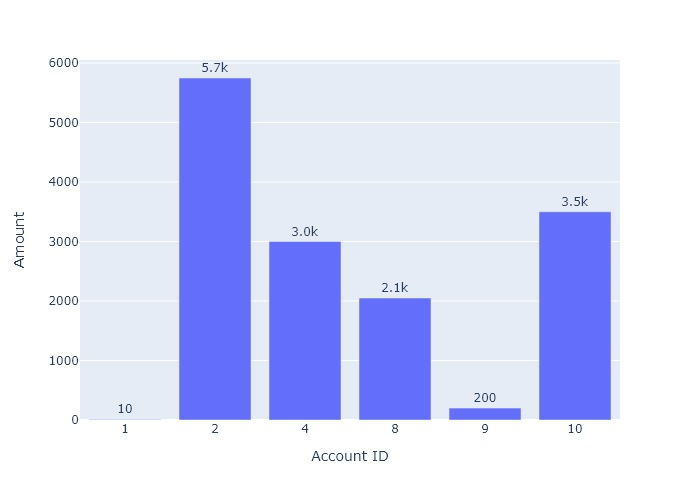
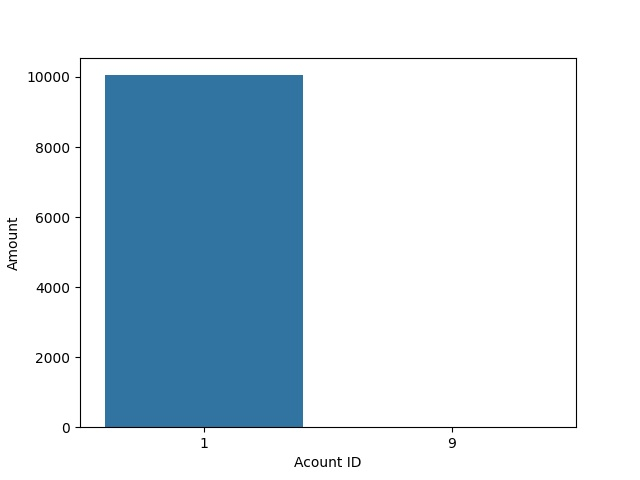
clearing report generating bugs

diff --git a/static/css/trans-rep.css b/static/css/trans-rep.css
@@ -1,17 +1,6 @@
 
-img{
-    width: 500px;
-    height: 300px;
-    object-fit: cover;
-    max:10px;
-display:block;
-box-shadow: 0 0 10px white;
-transition:  1s ease-in-out;
-text-align: left;
-   
-}
 p{
-    text-align: right;
+    text-align: center;
 color: white;
 font-weight: bold;
 font-size: 35px;
@@ -27,14 +16,14 @@ button{
         box-sizing: border-box;
         border: blue;
         opacity:95%;
-        
+
         border-radius: 2px;
         font-family: 'Times New Roman', Times, serif;
         font-size: 25px;
         color:rgb(22, 19, 19);
         padding: 10px;
         box-shadow: 0 0 10px white;
-        
+
 
 }
 img:hover{

diff --git a/templates/FastWithdraw.html b/templates/FastWithdraw.html
@@ -14,7 +14,7 @@
         <button type='submit' name='submit' value='1500'>1500</button>
         <button type='submit' name='submit' value='2000'>2000</button>
         <button type='submit' name='submit' value='3000'>3000</button>
-        <button type='submit' name='submit' value='4000'>3000</button>
+        <button type='submit' name='submit' value='4000'>4000</button>
   </form>
   <a href="{% url 'Atm_app:options'%}" ><button>Back</button></a>
   {% for message in messages %}

diff --git a/templates/transactions_report.html b/templates/transactions_report.html
@@ -4,6 +4,7 @@
   <head>
     <meta charset="utf-8">
     <title>ATM</title>
+    <link rel="stylesheet" href="{% static 'css/trans-rep.css' %}">
   </head>
   <body>
     <img src="{% static '/images/fig1.jpeg' %}" alt='not available'>

diff --git a/templates/noTransaction.html b/templates/noTransaction.html
@@ -1,0 +1,10 @@
+<!DOCTYPE html>
+<html lang="en" dir="ltr">
+  <head>
+    <meta charset="utf-8">
+    <title></title>
+  </head>
+  <body>
+    <h1>{{text}}</h1>
+  </body>
+</html>

diff --git a/Atm_app/views.py b/Atm_app/views.py
@@ -2,13 +2,12 @@ from django.shortcuts import render,redirect,HttpResponse
 from .models import cardDetails,Accounts,cardType,transcations,loan,customer,pin
 from django.contrib import messages
 from django.db import connection
-import plotly.express as px
 import numpy as np
 from Atm_min_project.settings import STATIC_DIR
 import os
 from datetime import datetime,timedelta
-import io
-import PIL.Image as Image
+import matplotlib.pyplot as plt
+import seaborn as sns
 # Create your views here.
 def welcome(request):
     return(render(request,'Welcome.html'))
@@ -183,48 +182,47 @@ def generate_report(request):
     WHERE tran_time BETWEEN DATE_SUB(NOW(), INTERVAL 1 DAY) AND NOW()
     GROUP BY account_id_id"""
     transcations_data=transcations.objects.raw(query1)
-    x=[]
-    y=[]
-    for obj in transcations_data:
-        x.append(obj.account_id_id)
-        y.append(obj.amount)
-    x=np.array(x)
-    y=np.array(y)
-    high=y.argmax()
-    low=y.argmin()
     high_time=datetime.now()
     low_time=high_time-timedelta(days=1)
     high_time=high_time.strftime("%m/%d/%Y, %H:%M:%S")
     low_time=low_time.strftime("%m/%d/%Y, %H:%M:%S")
-    text1="""In the peroid of {}-{}, Account ID {} has highest transaction amount and Account ID {}
+    if len(transcations_data)==0:
+        text="Transactions not happened on {} - {} ".format(high_time,low_time)
+        return(render(request,'noTransaction.html',{'text':text}))
+    else:
+        x=[]
+        y=[]
+        for obj in transcations_data:
+            x.append(obj.account_id_id)
+            y.append(obj.amount)
+        x=np.array(x)
+        y=np.array(y)
+        high=y.argmax()
+        low=y.argmin()
+        text1="""In the peroid of {}-{}, Account ID {} has highest transaction amount and Account ID {}
             lowest transaction amount """.format(low_time,high_time,x[high],x[low])
-    fig1 = px.bar(x=x, y = y ,labels=dict(x="Account ID", y="Amount"),text=y)
-    fig1.update_xaxes(type='category')
-    fig1.update_traces(texttemplate='%{text:.2s}', textposition='outside')
-    fig1.update_layout(uniformtext_minsize=8, uniformtext_mode='hide')
-    fig1.write_image(os.path.join(STATIC_DIR,"images","fig1.jpeg"))
-
-    query2="""SELECT id,description,SUM(amount) as amount
-    FROM atm_app_transcations
-    WHERE tran_time BETWEEN DATE_SUB(NOW(), INTERVAL 1 DAY) AND NOW()
-    GROUP BY description"""
-    transcations_data=transcations.objects.raw(query2)
-    x=[]
-    y=[]
-    for obj in transcations_data:
-        x.append(obj.description)
-        y.append(obj.amount)
-    x=np.array(x)
-    y=np.array(y)
-    high_time=datetime.now()
-    low_time=high_time-timedelta(days=1)
-    high_time=high_time.strftime("%m/%d/%Y, %H:%M:%S")
-    low_time=low_time.strftime("%m/%d/%Y, %H:%M:%S")
-    text2="""In the peroid of {}-{},Total {} amount is {}
+        fig1 = plt.figure()
+        sns.barplot(x=x,y=y)
+        plt.ylabel('Amount')
+        plt.xlabel('Acount ID')
+        fig1.savefig(os.path.join(STATIC_DIR,"images","fig1.jpeg"))
+        query2="""SELECT id,description,SUM(amount) as amount
+                FROM atm_app_transcations
+                WHERE tran_time BETWEEN DATE_SUB(NOW(), INTERVAL 1 DAY) AND NOW()
+                GROUP BY description"""
+        transcations_data=transcations.objects.raw(query2)
+        dict={'credit':0,'debit':0}
+        for obj in transcations_data:
+            dict[obj.description]=obj.amount
+        x=list(dict.keys())
+        y=list(dict.values())
+        explode = (0, 0.1)
+        colors = ['#99ff99','#66b3ff']
+        fig2, ax1 = plt.subplots()
+        ax1.pie(y, labels = x,explode=explode,colors=colors,autopct='%1.1f%%',shadow=True, startangle=90)
+        ax1.axis('equal')
+        plt.tight_layout()
+        fig2.savefig(os.path.join(STATIC_DIR,"images","fig2.jpeg"))
+        text2=text2="""In the peroid of {}-{},Total {} amount is {}
             and {} amount is {}. """.format(low_time,high_time,x[0],y[0],x[1],y[1])
-    fig2 = px.bar(x=x, y = y ,labels=dict(x="Type", y="Amount"),text=y)
-    fig2.update_xaxes(type='category')
-    fig2.update_traces(texttemplate='%{text:.2s}', textposition='outside')
-    fig2.update_layout(uniformtext_minsize=8, uniformtext_mode='hide')
-    fig2.write_image(os.path.join(STATIC_DIR,"images","fig2.jpeg"))
-    return render(request,'transactions_report.html',{'text1':text1,'text2':text2})
+        return render(request,'transactions_report.html',{'text1':text1,'text2':text2})
